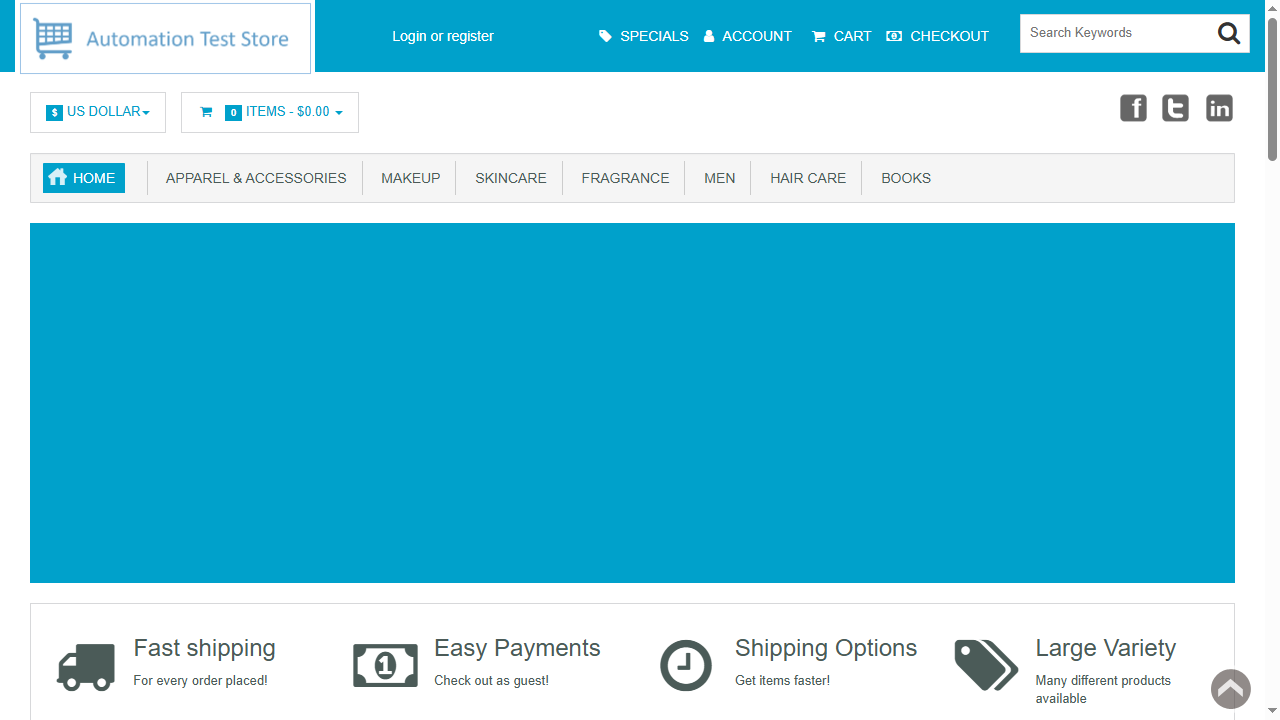
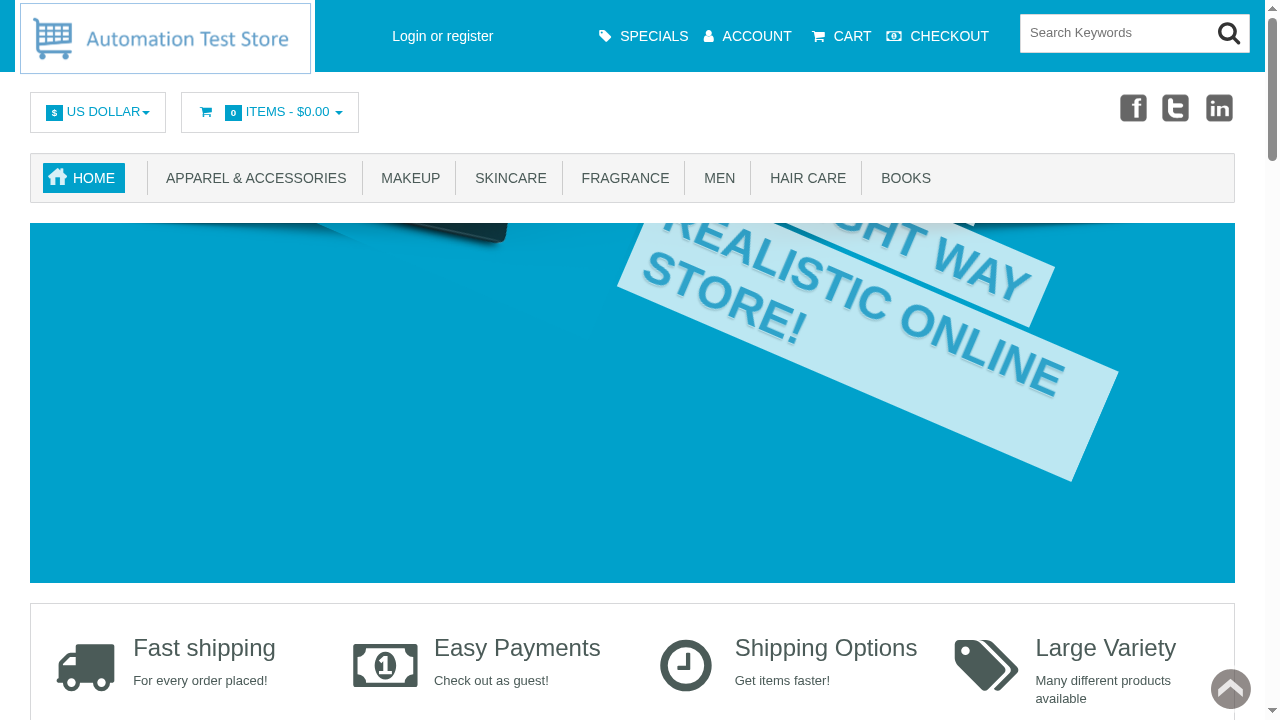
New Assertion added

diff --git a/tests/Demo/book_category.spec.js b/tests/Demo/book_category.spec.js
@@ -65,25 +65,25 @@ test.describe("Books Module", () => {
     //     await expect(books.productItems).toHaveCount(4);
     // });
 
-    // test("Display 8 products", async ({ page }) => {
-
-    //     const books = new Books(page);
-
-    //     await books.goto();
-
-    //     await books.selectPageSize(8);
-
-    //     expect(await books.getDisplayedProductsCount()).toBeGreaterThan(4);
-    // });
-
-    test("Change View Mode", async ({ page }) => {
+    test("Display 8 products", async ({ page }) => {
 
         const books = new Books(page);
 
         await books.goto();
 
-        await books.selectViewMode("List");
+        await books.selectPageSize(8);
+
+        expect.soft(await books.getDisplayedProductsCount()).toBeGreaterThan(4);
     });
+
+    // test("Change View Mode", async ({ page }) => {
+
+    //     const books = new Books(page);
+
+    //     await books.goto();
+
+    //     await books.selectViewMode("List");
+    // });
 
     // New Test case is added to verify the book category filter functionality
     test("Filter books by Book Category", async ({ page }) => {
